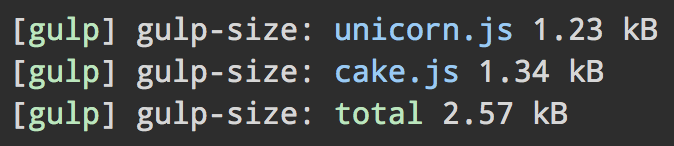
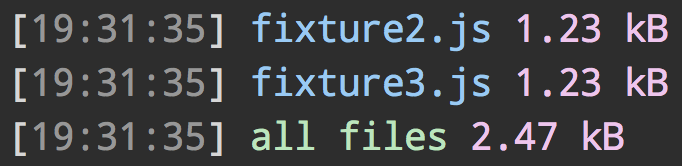
update screenshot

diff --git a/readme.md b/readme.md
@@ -2,14 +2,14 @@
 
 > Display the size of your project
 
-![](screenshot.png)
+<img src="screenshot" width="341">
 
 Logs out the total size of files in the stream and optionally the individual file-sizes.
 
 
 ## Install
 
-```bash
+```sh
 $ npm install --save-dev gulp-size
 ```
 
@@ -58,4 +58,4 @@ Give it a title so it's possible to distinguish the output of multiple instances
 
 ## License
 
-[MIT](http://opensource.org/licenses/MIT) © [Sindre Sorhus](http://sindresorhus.com)
+MIT © [Sindre Sorhus](http://sindresorhus.com)
